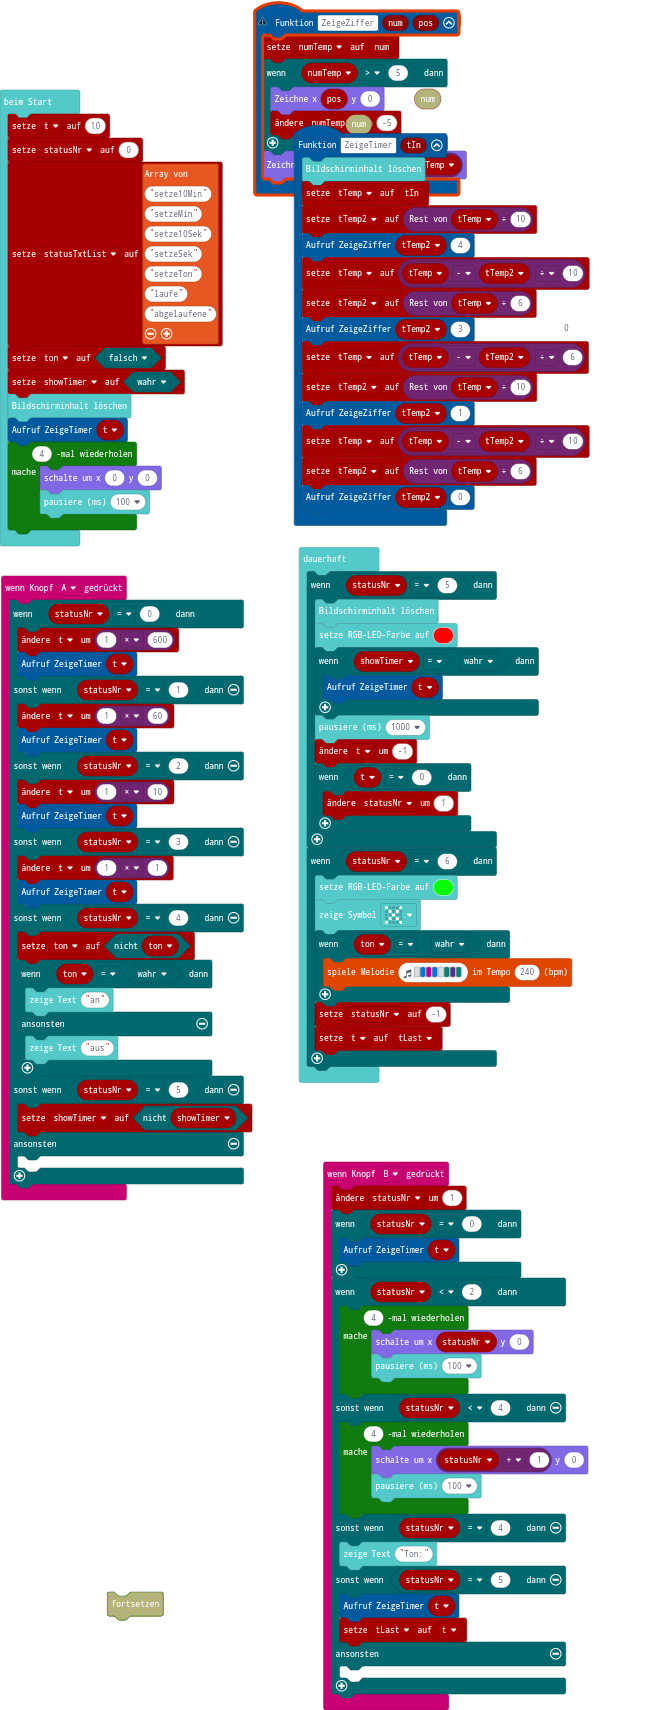
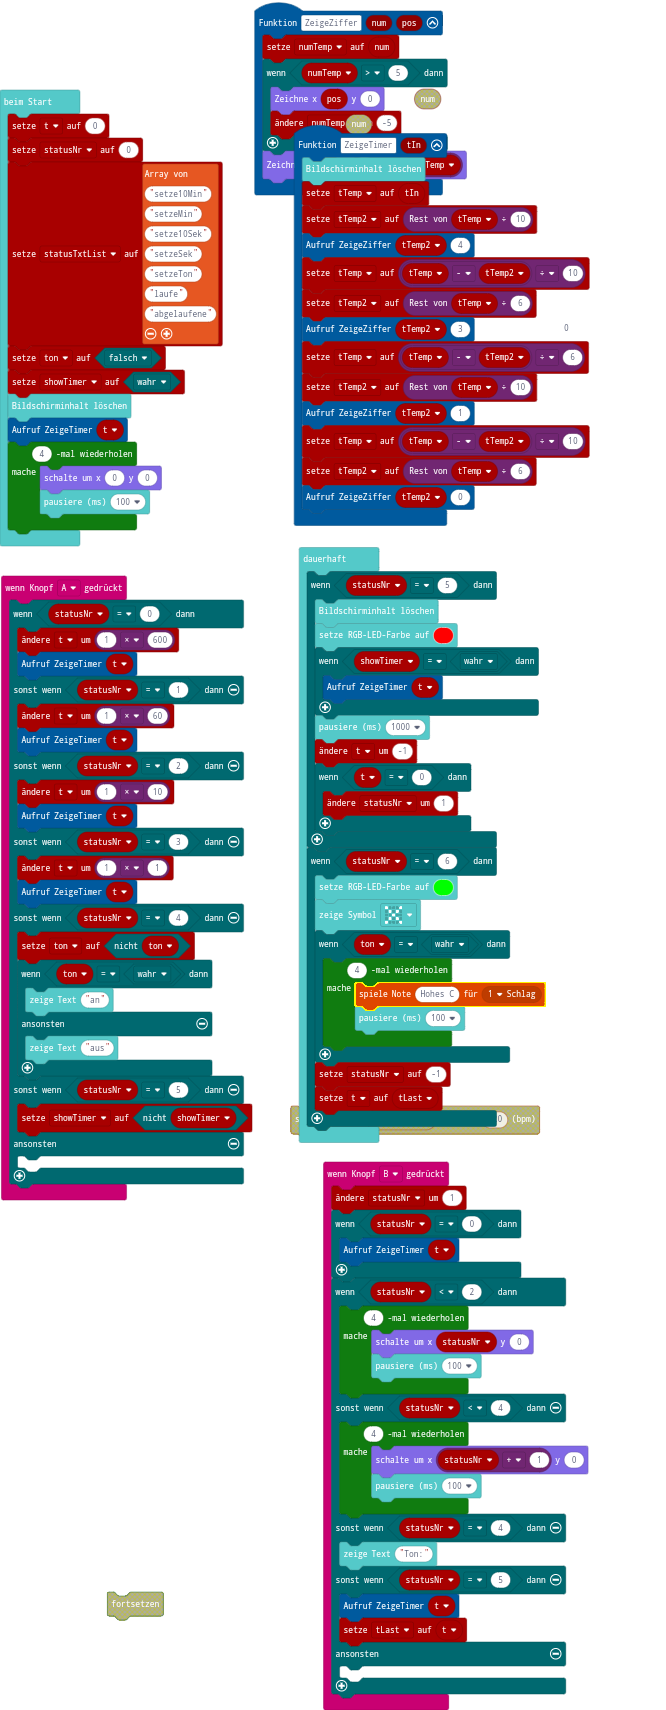
running and compiling, changed sound

Changed region(s): [[0.4204, 0.5579, 0.8709, 0.6819], [0.3604, 0.0, 0.6907, 0.124], [0.6607, 0.093, 0.6907, 0.124]]

diff --git a/main.ts b/main.ts
@@ -79,7 +79,7 @@ let showTimer = false
 let ton = false
 let statusNr = 0
 let t = 0
-t = 10
+t = 0
 statusNr = 0
 let statusTxtList = ["setze10Min", "setzeMin", "setze10Sek", "setzeSek", "setzeTon", "laufe", "abgelaufene"]
 ton = false
@@ -107,7 +107,10 @@ basic.forever(function () {
         basic.setLedColor(0x00ff00)
         basic.showIcon(IconNames.No)
         if (ton == true) {
-            music.playMelody("- E C E - F D F ", 240)
+            for (let index = 0; index < 4; index++) {
+                music.playTone(523, music.beat(BeatFraction.Whole))
+                basic.pause(100)
+            }
         }
         statusNr = -1
         t = tLast
